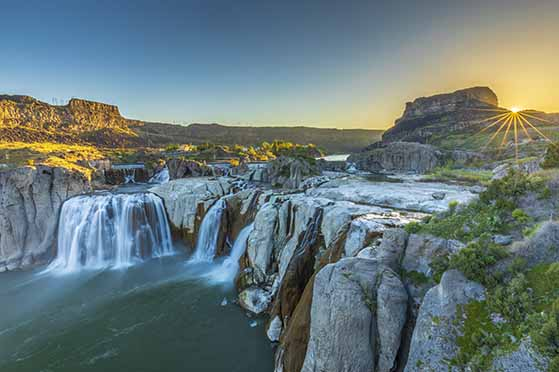
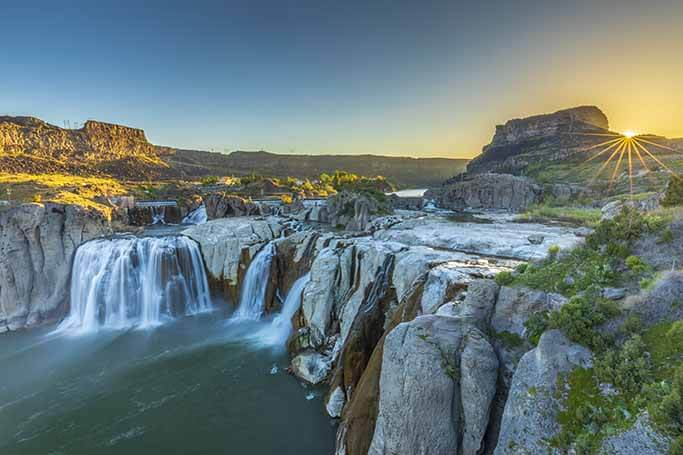
commit

diff --git a/lesson9-home/index.html b/lesson9-home/index.html
@@ -14,7 +14,6 @@
     <link href="css/large.css" rel="stylesheet">
     <link rel="preconnect" href="https://fonts.googleapis.com">
     <link rel="preconnect" href="https://fonts.gstatic.com" crossorigin>
-    
 </head>
 <body>
 <!-- HEADER HERE -->
@@ -23,7 +22,7 @@
     </div>
 	<header id = "topbar">
         <figure class="logo">
-            <img src="images/Eye%20Sky%20Weather-logos_white.png" alt="logo" srcset="images/logo1.png 1x, images/logo2.png 2x, images/logo3.png 3x">
+            <img src="images/Eye%20Sky%20Weather-logos_white.png" alt="logo" srcset="images/logo1.png 1x, images/logo2.png 2x, images/logo3.png 3x" width="506" height="520">
         </figure>
         <section class="headings">
             <h1>Eye Sky Weather</h1>
@@ -49,11 +48,7 @@
         <!-- HERO IMAGE -->
         <div class="contentbox hero">
             <figure class="herophoto">
-                <img src="./images/hero/home-hero.png" alt="hero image" sizes="100vw"
-                     srcset="images/hero/home-hero-small.jpg 200w,
-                             images/hero/home-hero-medium.jpg 500w,
-                             images/hero/home-hero-large.jpg 800w"
-                    >
+                <img src="./images/hero/hero-placeholder.png" data-src="./images/hero/home-hero.jpg" width="1024" height="342">
             </figure>
         </div>       
         
@@ -63,7 +58,7 @@
         <!-- ARTICLE -->
         <div class="contentbox article clearfix">
             <figure class="articlephoto">
-                <img src="./images/article.jpg" alt="festival image" sizes="50vw"
+                <img src="./images/article.jpg" alt="festival image" sizes="50vw" width="576" height="386"
                      srcset="images/article.jpg 200w,
                              images/article.jpg 500w,
                              images/article.jpg 800w,
@@ -84,10 +79,10 @@
             <p><span class="phone">📞555-555-5555</span></p>
             <p><span class="email">📧contact@eyeskyweather.com</span></p>
             <div class="social-media">
-                <img src="./images/facebook.png" alt="facebook page link">
-                <img src="./images/pinterest.png" alt="pinterest">
-                <img src="./images/twitter.png" alt="twitter">
-                <img src="./images/whattsapp.png" alt="whattsapp">
+                <img src="./images/facebook.png" alt="facebook page link" width="128" height="128">
+                <img src="./images/pinterest.png" alt="pinterest" width="128" height="128">
+                <img src="./images/twitter.png" alt="twitter" width="128" height="128">
+                <img src="./images/whattsapp.png" alt="whattsapp" width="128" height="128">
             </div>
         </div>
         
@@ -98,9 +93,10 @@
         &copy;<span id="copyrightyear"></span> | Eye Sky Weather | All Rights Reserved | Michelle Angelie Puyat<br>
         <span id="currentdate"></span>
     </footer>
-    <script defer src="js/scripts.js"></script>
+    <script src="js/fetchTownData.js"></script>    
     <script src="https://ajax.googleapis.com/ajax/libs/webfont/1.6.26/webfont.js"></script>
+    <script src="js/scripts.js"></script>
     <script src="js/webfontload.js"></script>
-    <script src="js/fetchTownData.js"></script>
+    <script src="js/lazy-load.js"></script>
 </body>
 </html>

diff --git a/lesson9-home/css/small.css b/lesson9-home/css/small.css
@@ -14,10 +14,6 @@ header {
 }
 
 header .logo {
-	/*
-	width: 25%;
-    height: auto;
-	*/
 	margin: 0;
 	position: absolute;
 	top: 50%;
@@ -27,6 +23,12 @@ header .logo {
 	grid-column-start: 1;
 	grid-column-end: 2;
 }
+
+.logo img {
+	width: 150%;
+	height: auto;
+}
+
 
 header .headings {
 	grid-column: 2;
@@ -241,6 +243,7 @@ main div {
 
 .article figure.articlephoto img {
     width: 100%;
+	height: auto;
 }
 
 .article figure.articlephoto figcaption {
@@ -286,6 +289,7 @@ main div {
 
 .contact img {
 	width: 10%;
+	height: auto;
 }
 
 /*Image Gallery*/
@@ -462,6 +466,7 @@ form label.top input:required:valid {
 .cards section img {
 	margin: .1rem;
 	width: 100%;
+	height: auto;
 }
 
 .cards h2 {

diff --git a/lesson9-home/js/fetchTownData.js b/lesson9-home/js/fetchTownData.js
@@ -28,6 +28,8 @@ fetch(requestURL)
                 yearFounded.textContent = 'Year Founded: ' + towns[i].yearFounded;
                 image.setAttribute('src','./images/card/' + towns[i].photo);
                 image.setAttribute('alt',towns[i].name);
+                image.setAttribute('width', "683");
+                image.setAttribute('height', "455");
                 details.setAttribute('id', 'details');
 
                 card.appendChild(details);

diff --git a/lesson9-home/js/lazy-load.js b/lesson9-home/js/lazy-load.js
@@ -14,7 +14,7 @@ function preloadImage(img) {
 
 const imgOptions = {
     threshold: 0,
-    rootMargin: '0px 0px -300px 0px'
+    rootMargin: '0px 0px -100px 0px'
 };
 
 //create image observer
